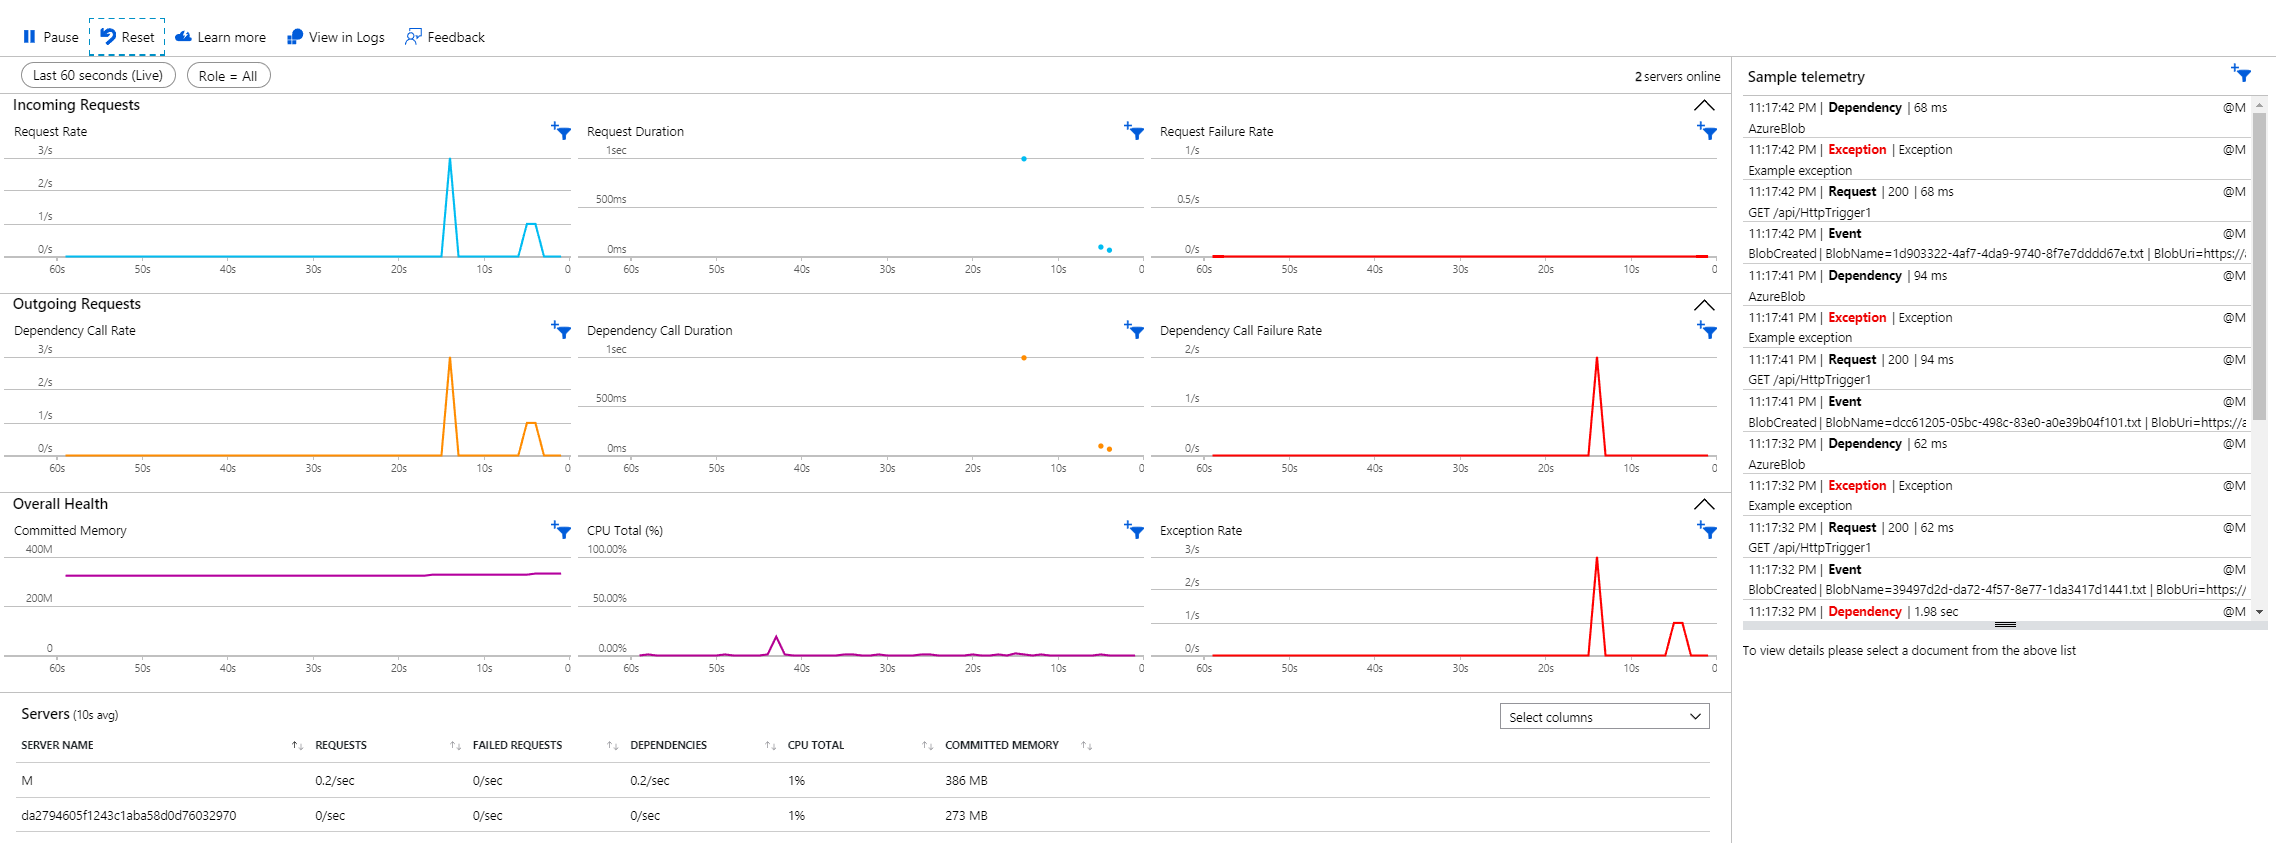
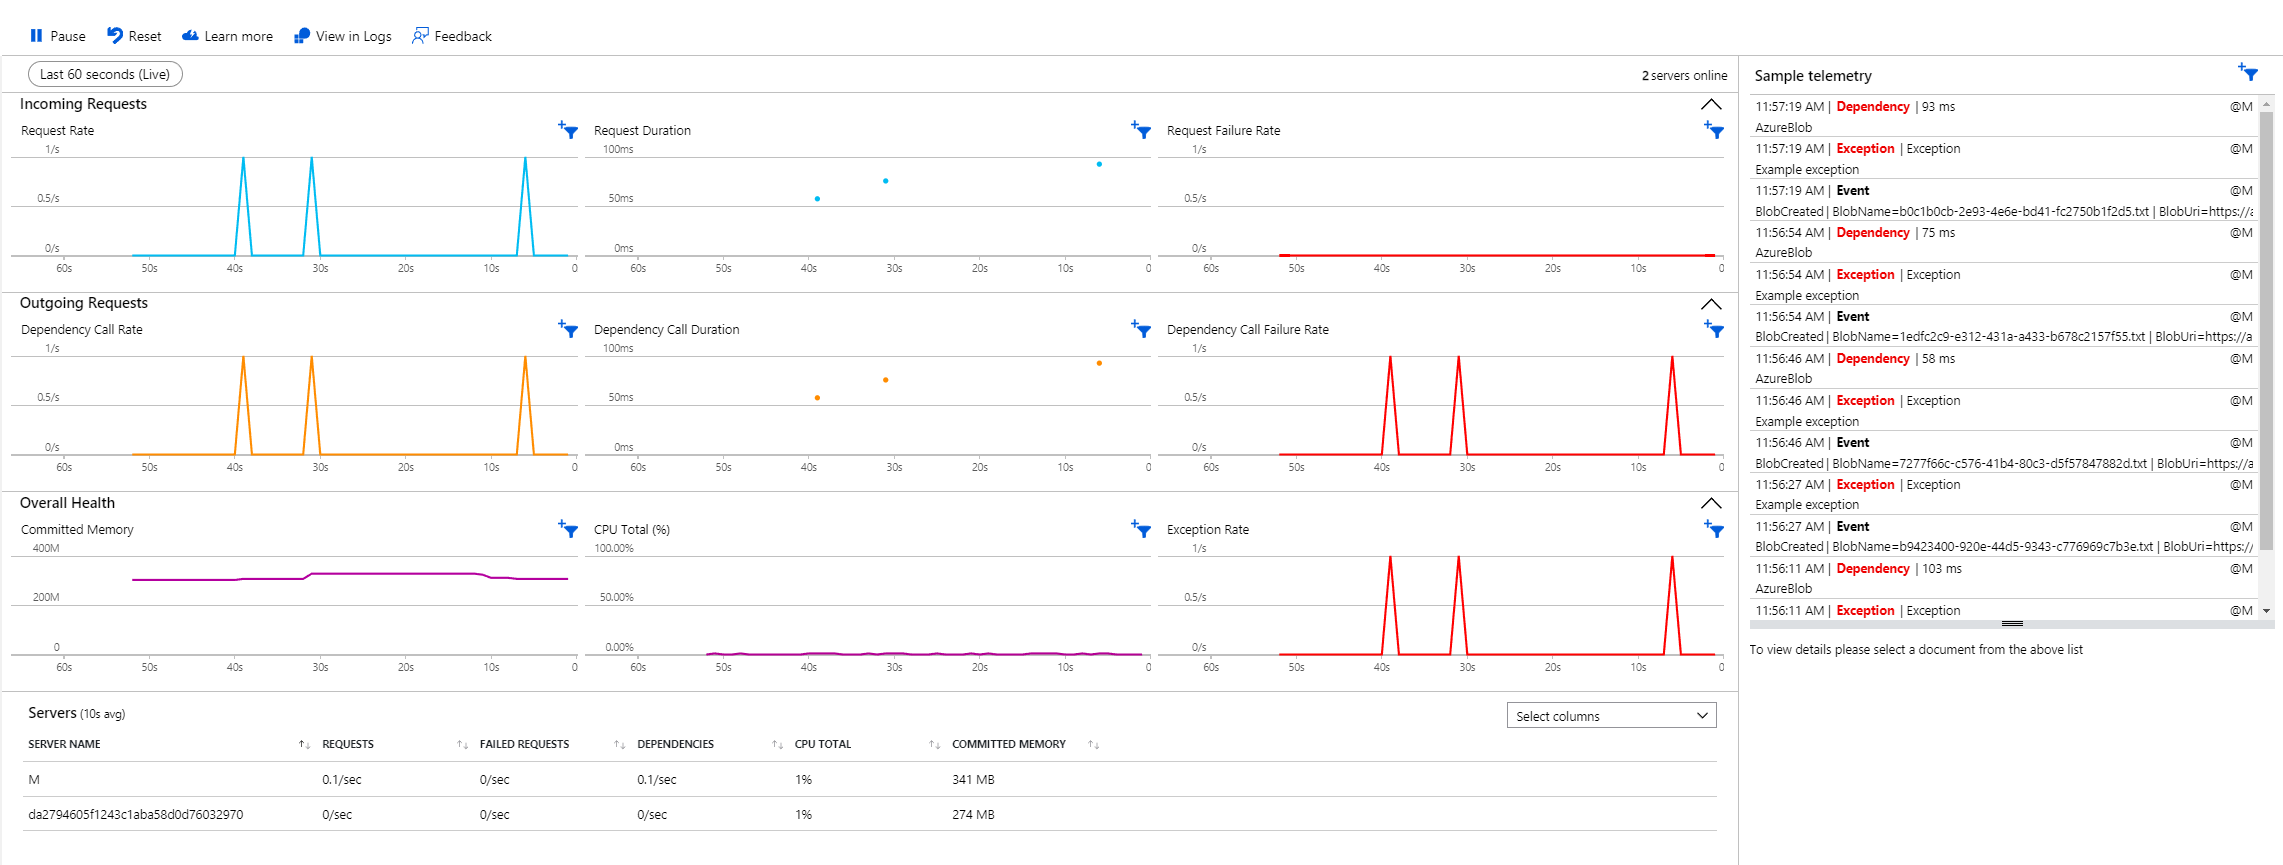
update web app config

diff --git a/MyFunctionApp/MyHttpFunction.cs b/MyFunctionApp/MyHttpFunction.cs
@@ -15,44 +15,40 @@ using Microsoft.ApplicationInsights.Extensibility.PerfCounterCollector.QuickPuls
 using System.Collections.Generic; // Required for using Dictionary
 using Microsoft.AspNetCore.Http.Extensions;
 using Microsoft.ApplicationInsights.DataContracts;
-using Microsoft.ApplicationInsights.Extensibility.PerfCounterCollector.QuickPulse;
+using Microsoft.ApplicationInsights.WindowsServer.TelemetryChannel;
 
 public static class HttpTrigger1
 {
 
     private static TelemetryClient telemetryClient;
+
     static HttpTrigger1()
     {
-        // Retrieve the Application Insights connection string from environment variables
         string connectionString = Environment.GetEnvironmentVariable("APP_INSIGHTS_CONNECTION_STRING");
-
-        // Create a default telemetry configuration
         TelemetryConfiguration configuration = TelemetryConfiguration.CreateDefault();
-
-        // Assign the retrieved connection string to the configuration
         configuration.ConnectionString = connectionString;
 
-        // Explicitly adding telemetry initializer
         configuration.TelemetryInitializers.Add(new DependencyTelemetryInitializer());
 
         QuickPulseTelemetryProcessor quickPulseProcessor = null;
 
-        // Setup the telemetry processor chain, adding CustomTelemetryProcessor first
+        // Set up telemetry processors using the chain builder
         configuration.DefaultTelemetrySink.TelemetryProcessorChainBuilder
-            .Use((next) => new CustomTelemetryProcessor(next)) // Add the custom processor first to filter out exceptions
+            .Use((next) => new CustomTelemetryProcessor(next))
             .Use((next) => {
-                quickPulseProcessor = new QuickPulseTelemetryProcessor(next); // Setup QuickPulseTelemetryProcessor next
+                quickPulseProcessor = new QuickPulseTelemetryProcessor(next);
                 return quickPulseProcessor;
             })
+            .UseSampling(1)
             .Build();
 
         var quickPulseModule = new QuickPulseTelemetryModule();
         quickPulseModule.Initialize(configuration);
-        quickPulseModule.RegisterTelemetryProcessor(quickPulseProcessor); // Register QuickPulseTelemetryProcessor in the QuickPulse module
+        quickPulseModule.RegisterTelemetryProcessor(quickPulseProcessor);
 
-        // Initialize the telemetry client with the configured settings
         telemetryClient = new TelemetryClient(configuration);
     }
+
 
 
     [FunctionName("HttpTrigger1")]
@@ -128,8 +124,14 @@ public static class HttpTrigger1
         telemetryClient.TrackMetric(metric);
 
         // track a custom trace
-        telemetryClient.TrackTrace("This is a custom trace message");
+        // telemetryClient.TrackTrace("This is a custom trace message");
 
+
+        // a loop of 1000 same trace messages
+        for (int i = 0; i < 1000; i++)
+        {
+            telemetryClient.TrackTrace("This is a custom trace message");
+        }
         // Flush the telemetry to ensure that it is sent to Application Insights
         telemetryClient.Flush();
 

diff --git a/SimulateTraffic/send_requests.py b/SimulateTraffic/send_requests.py
@@ -1,0 +1,54 @@
+import argparse
+import aiohttp
+import asyncio
+from tqdm import tqdm  # Use regular tqdm
+
+async def send_requests(url, requests_per_second, duration_seconds):
+    # Warm-up request before starting the main loop
+    async with aiohttp.ClientSession() as session:
+        print("Sending initial request...")
+        await send_request(session, url)  # Send a single warm-up request
+        print("Initial request sent. Waiting 5 seconds before starting the main loop...")
+        await asyncio.sleep(5)  # Wait for 5 seconds after the initial request
+
+        total_requests = requests_per_second * duration_seconds
+        interval = 1.0 / requests_per_second
+
+        tasks = []
+        progress = tqdm(total=total_requests, desc="Sending Requests", unit="req")
+
+        for _ in range(total_requests):
+            task = asyncio.ensure_future(send_request(session, url, progress))
+            tasks.append(task)
+            await asyncio.sleep(interval)  # Sleep asynchronously
+
+        responses = await asyncio.gather(*tasks)
+        progress.close()
+
+        # Analyze responses (just count them in this example)
+        status_counts = {status: responses.count(status) for status in set(responses) if status is not None}
+        print(f"Finished sending requests. Status counts: {status_counts}")
+
+async def send_request(session, url, progress=None):
+    try:
+        async with session.get(url) as response:
+            if progress:
+                progress.update(1)
+            return response.status
+    except Exception as e:
+        if progress:
+            progress.write(f"An error occurred: {e}")
+        return None
+
+def main():
+    parser = argparse.ArgumentParser(description='Send HTTP requests at a specified rate to a given URL.')
+    parser.add_argument('url', type=str, help='The URL to send requests to')
+    parser.add_argument('requests_per_second', type=int, help='Number of requests per second')
+    parser.add_argument('duration_seconds', type=int, help='Duration to send requests in seconds')
+
+    args = parser.parse_args()
+
+    asyncio.run(send_requests(args.url, args.requests_per_second, args.duration_seconds))
+
+if __name__ == '__main__':
+    main()

diff --git a/MyFunctionApp/CustomTelemetryProcessor.cs b/MyFunctionApp/CustomTelemetryProcessor.cs
@@ -15,8 +15,8 @@ public class CustomTelemetryProcessor : ITelemetryProcessor
 
     public void Process(ITelemetry item)
     {
-        // Check if the telemetry item is an trace telemetry item
-        if (item is TraceTelemetry trace)
+        // Check if the telemetry item is not an trace telemetry item
+        if (!(item is TraceTelemetry))
         {
             // If it is, return early without calling the next processor
             return;

diff --git a/README.md b/README.md
@@ -82,7 +82,7 @@ az monitor app-insights component show --app $APP_INSIGHTS_NAME --resource-group
    dotnet add package Microsoft.ApplicationInsights.AspNetCore
    ```
 2. **Configure Application Insights in appsettings.json:**
-    Add the following JSON configuration to your ```appsettings.json``` file. This configuration includes the connection string with your unique InstrumentationKey, IngestionEndpoint, LiveEndpoint, and ApplicationId. Make sure to replace the placeholders with your actual Application Insights values:
+    Add the following JSON configuration to your ```appsettings.json``` file. This configuration includes the connection string with your unique InstrumentationKey, IngestionEndpoint, LiveEndpoint, and ApplicationId. Make sure to replace the placeholders with your actual Application Insights values, Note that we are going to use App_Insights instead of ApplicationInsight to prevent any conflicts with other services that use Application Insights and send telemetry automatically.
     ```json
     {
     "Logging": {
@@ -91,17 +91,20 @@ az monitor app-insights component show --app $APP_INSIGHTS_NAME --resource-group
         "Microsoft.AspNetCore": "Warning"
         }
     },
-    "ApplicationInsights": {
+    "App_Insights": {
         "ConnectionString": "INSERT_CONNECTION_STRING_HERE"
     },
     "AllowedHosts": "*"
     }
-
     ```
     Add the Application Insight service to the ```Program.cs```:
 
     ```csharp
-    builder.Services.AddApplicationInsightsTelemetry(builder.Configuration["ApplicationInsights:ConnectionString"]);
+    // Updated Application Insights configuration
+    builder.Services.AddApplicationInsightsTelemetry(options =>
+    {
+        options.ConnectionString = builder.Configuration["App_Insights:ConnectionString"];
+    });
     ```
 
 ## Step 4: Create a Function App as Backend service and internal API for the background jobs
@@ -735,4 +738,70 @@ This setup ensures that all dependency telemetry collected through your applicat
 
 <div align="center">
   <img src="images/Step_9_TelemetryInitializer.png" width="1200" alt="">
+</div>
+
+### Step 10: Sampling
+
+Sampling is a feature in Application Insights designed to reduce telemetry traffic, data costs, and storage costs while preserving statistically correct analysis of application data. It helps avoid throttling by Application Insights by selecting related items, enabling easier navigation during diagnostic investigations.
+
+**Note:** The sampling behavior can only be modified in `Host.json` if you are using agent-based Application Insights, which provides limited flexibility in designing the configuration for telemetry itself. For our case, the sampling configuration needs to be added to the processor chain builder in `MyHttpFunction.cs`.
+
+#### Configuring Sampling
+
+1. Modify the Processor Chain:
+
+    In `MyHttpFunction.cs`, import the necessary namespace:
+    ```csharp
+    using Microsoft.ApplicationInsights.WindowsServer.TelemetryChannel;
+    ```
+
+    Then, modify the chain and add fixed sampling:
+    ```csharp
+    configuration.DefaultTelemetrySink.TelemetryProcessorChainBuilder
+        .Use(next => new CustomTelemetryProcessor(next))
+        .Use(next => {
+            QuickPulseTelemetryProcessor quickPulseProcessor = new QuickPulseTelemetryProcessor(next);
+            return quickPulseProcessor;
+        })
+        .UseSampling(1)
+        .Build();
+    ```
+
+2. Modify Telemetry Trace:
+
+    Comment out the original trace message tracking and add a loop to create multiple trace messages:
+    ```csharp
+    // telemetryClient.TrackTrace("This is a custom trace message");
+    
+    // a loop of 1000 same trace messages
+    for (int i = 0; i < 1000; i++)
+    {
+        telemetryClient.TrackTrace("This is a custom trace message");
+    }
+    ```
+
+3. Modify the Custom Telemetry Processor:
+
+    Update the `CustomTelemetryProcessor` to only process trace telemetry items:
+    ```csharp
+    // Check if the telemetry item is not a trace telemetry item
+    if (!(item is TraceTelemetry))
+    {
+        // If it is, return early without calling the next processor
+        return;
+    }
+    ```
+
+4. Simulate Traffic:
+
+    Run the Python script `send_requests.py` located in `SimulateTraffic` directory to send requests using the following command:
+    ```bash
+    python send_requests.py <URL> 10 60
+    ```
+    This command simulates a load of 10 requests per second for 60 seconds. If `.UseSampling(100)` is set to 100, then 100% of the telemetry (60 seconds * 10 requests per second * 1000 traces per request = 600,000 traces) should be registered. When changed to 1 (1%), only 6,000 traces are sent to Application Insights.
+
+The first two bars represent the 100% simulation, totaling 600K traces. The last bar shows the second simulation with 1% sampling, which results in 6K traces.
+
+<div align="center">
+  <img src="images/Step_10_sampling.png" width="1200" alt="">
 </div>
